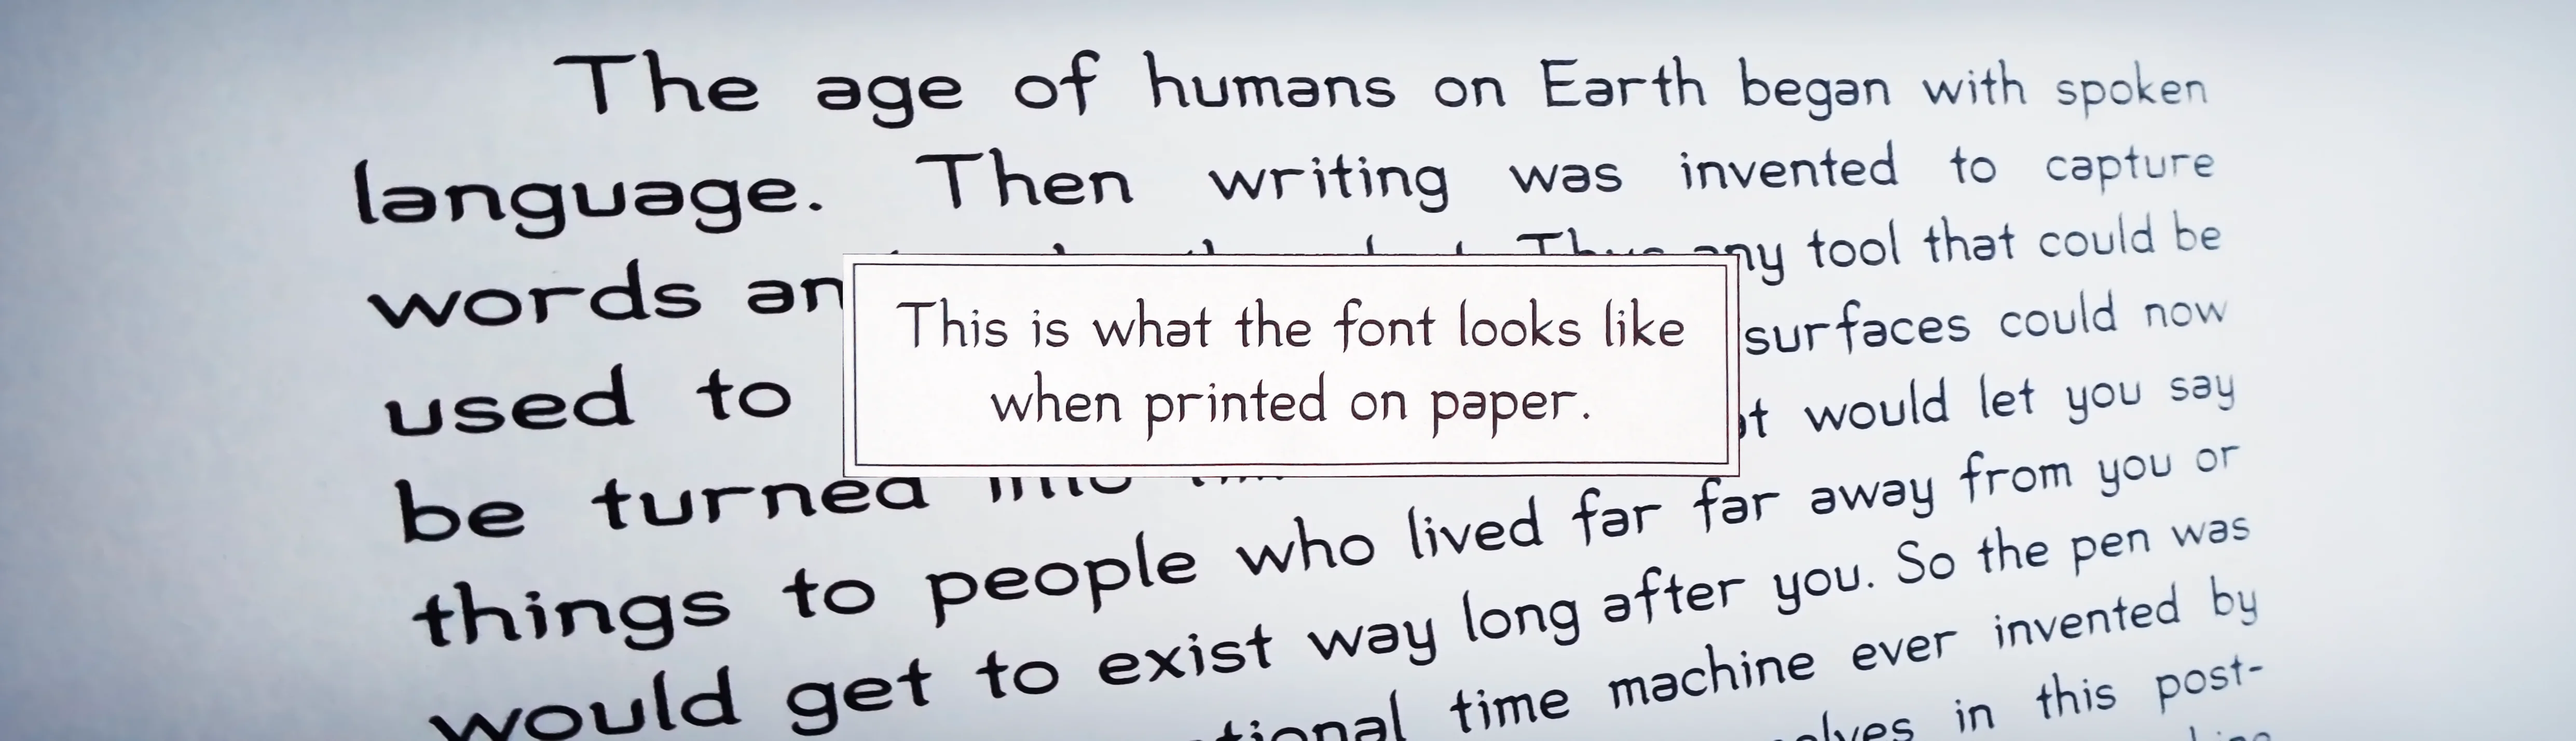
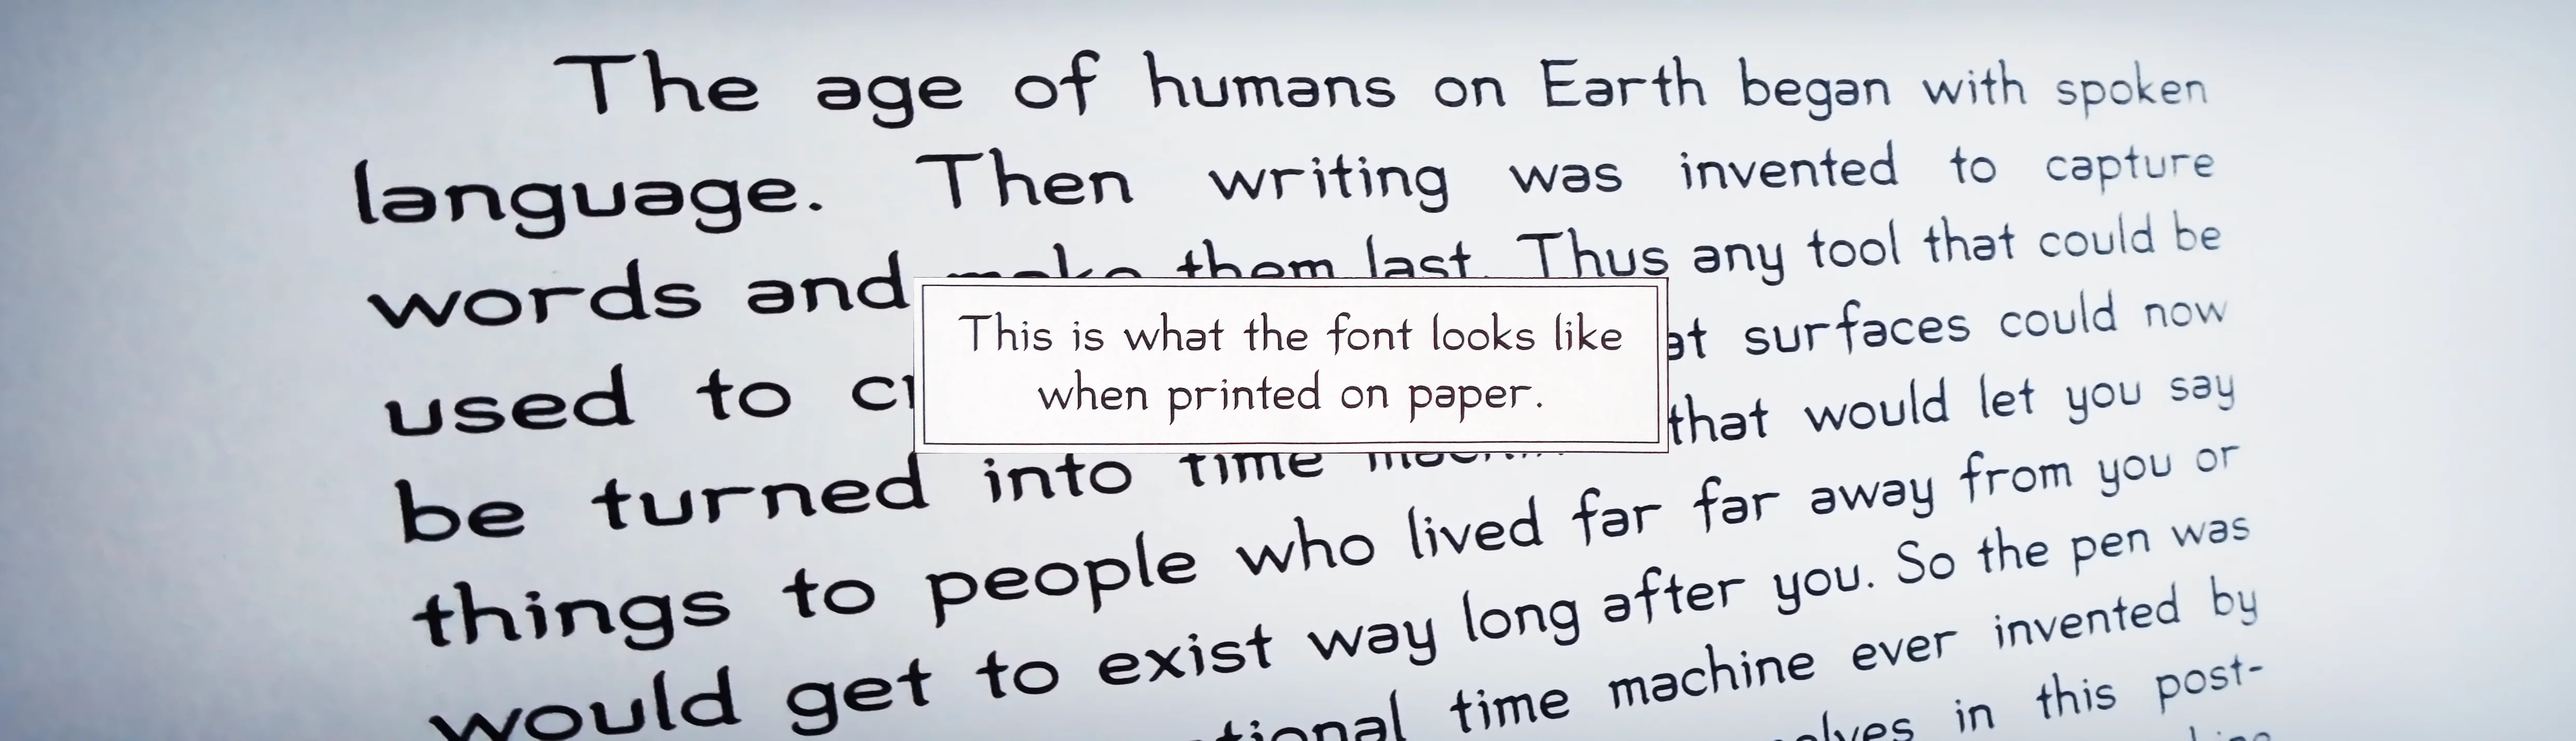
DONATIONS ACCEPTED

Changed region(s): [[0.3122, 0.3389, 0.6869, 0.6471]]

diff --git a/docs/index.html b/docs/index.html
@@ -12,7 +12,7 @@
         src: url("ManheartEarthman.otf");
       }
       body{
-        background-color: #242930;
+        background-color: #0d0f11;
         color: #b1bdc9;
         text-align: center;
       }
@@ -37,19 +37,20 @@
         width:100vw;
         overflow: hidden;
       }
+
       div{
         display: flex; align-items: center; justify-content: center; flex-direction: column;
       }
       .printLooksLikeThis{
         width:100vw;
-        height: 21.46vh;
-        background-color: rgba(99, 99, 99, 0.5);
+        height: 20vh;
+        background-color: #0d0f11;
         box-shadow: 0px 0px 1px #242930 inset, 0px 0px 2px #242930 inset, 0px 0px 3px #242930 inset, 0px 0px 4px #242930 inset;
         overflow: hidden;
       }
       .screenLooksLikeThis{
         width:100vw;
-        height: 21.46vh;
+        height: 20vh;
         margin-top: 2vh;
         background-color: #edf0f5;
         box-shadow: 0px 0px 1px #242930 inset, 0px 0px 2px #242930 inset, 0px 0px 3px #242930 inset, 0px 0px 4px #242930 inset;
@@ -64,8 +65,8 @@
       }
       article{
         position: fixed; left:50%; transform: translateX(-50%);
-        top:63vh;
-        width:62vw;
+        top:59vh;
+        width:80vw;
         text-align: justify; text-align-last: left;
         overflow: auto; max-height: 90px;
         font-family: monospace;
@@ -83,7 +84,7 @@
       }
       nav{
         position: fixed; left:50%; transform: translateX(-50%);
-        top:80vh;
+        top:73vh;
         display: flex; align-items: center; justify-content: center;
       }
       a{
